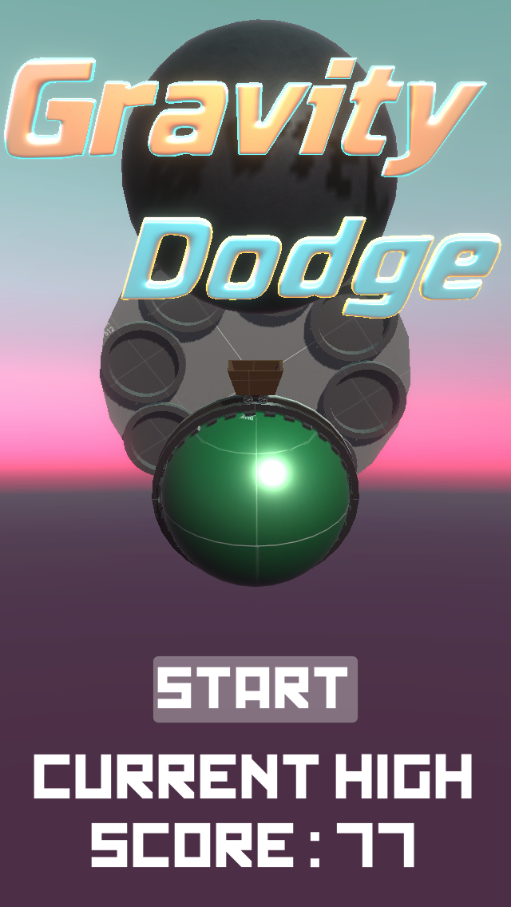
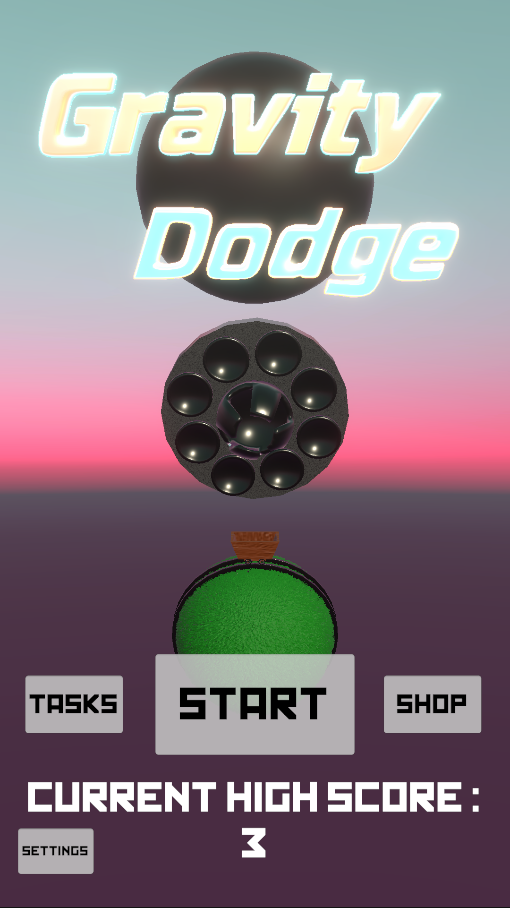
Upodate Gravity Dodge

diff --git a/html_templates/projects/gravityDodge/index.html b/html_templates/projects/gravityDodge/index.html
@@ -1,7 +1,7 @@
 <div id="gravityDodge">
     <h1>Gravity Dodge</h1>
 
-    <div class="main-image" data-attr-t data-attr-t-interpolate style-t="background-image: url('{{links.p_base}}assets/images/gravityDodge.png');"></div>
+    <div class="main-image" data-attr-t data-attr-t-interpolate style-t="background-image: url('{{links.p_base}}assets/images/gravityDodgeBG.png');"></div>
 
     <div class="container">
         <div class="col-xl-3 col-lg-4 offset-lg-0 col-md-6 offset-md-3 tldr">
@@ -12,12 +12,29 @@
         </div>
 
         <h2 data-t>general.whatidid</h2>
-        <p class="col-lg-8 offset-lg-2" data-t>projects.gravityDodge.whatidid</p>
+        <p class="col-lg-8 offset-lg-2" data-t>projects.gravityDodge.whatidid</p>        
+
+        <div class="links heartbeat-links">
+            <div class="link">
+                <a class="d-block" href="https://play.google.com/store/apps/details?id=com.Samper1.GravityDodge&hl=fr_FR" target="_blank" rel="nofollow"><img class="svg" data-attr-t data-attr-t-interpolate src-t="{{links.p_base}}assets/images/google-play.svg" alt="GooglePlay" width="48" height="48"></a>
+                <span>Google Play Store</span>
+            </div>
+        </div>
     </div>
+
     <div class="competences">
         <div class="container">
             <h2 data-t>general.general_idea</h2>
             <p class="col-lg-8 offset-lg-2" data-t>projects.gravityDodge.general_idea</p>
+        </div>
+    </div>
+
+    <div class="annexe">
+        <h2 data-t>general.annexe</h2>
+        <div class="container">
+            <img height="315" src="assets/images/gravityDodge1.jpg" alt="pic1">
+            <iframe width="560" height="315" src="https://www.youtube.com/embed/aLo5xLYzhGU" title="YouTube video player" frameborder="0" allow="accelerometer; autoplay; clipboard-write; encrypted-media; gyroscope; picture-in-picture" allowfullscreen></iframe>
+            <img height="315" src="assets/images/gravityDodge2.jpg" alt="pic2">
         </div>
     </div>
 </div>
